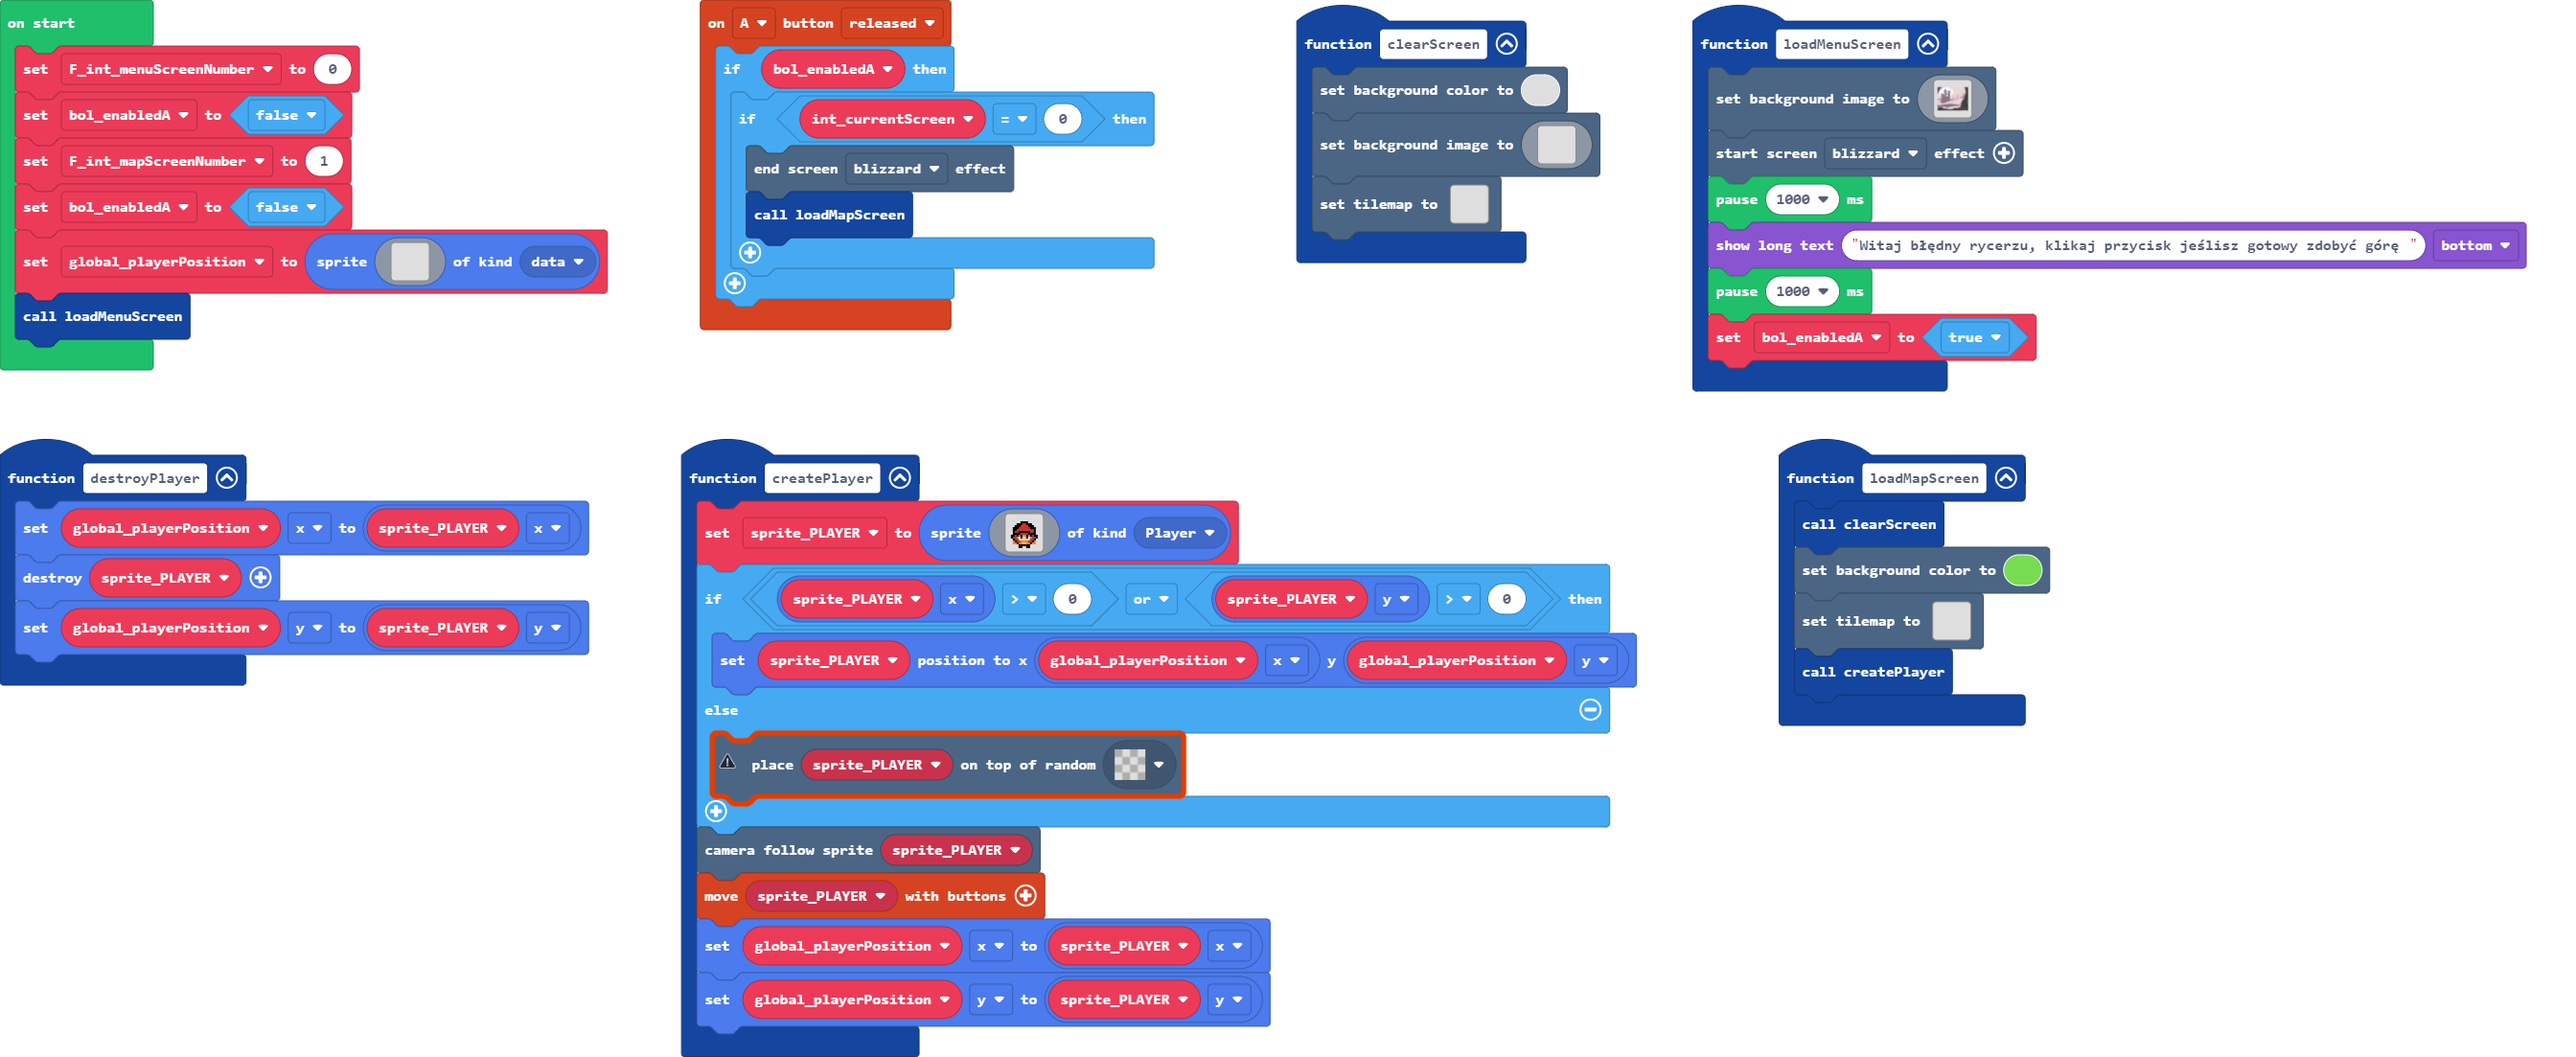
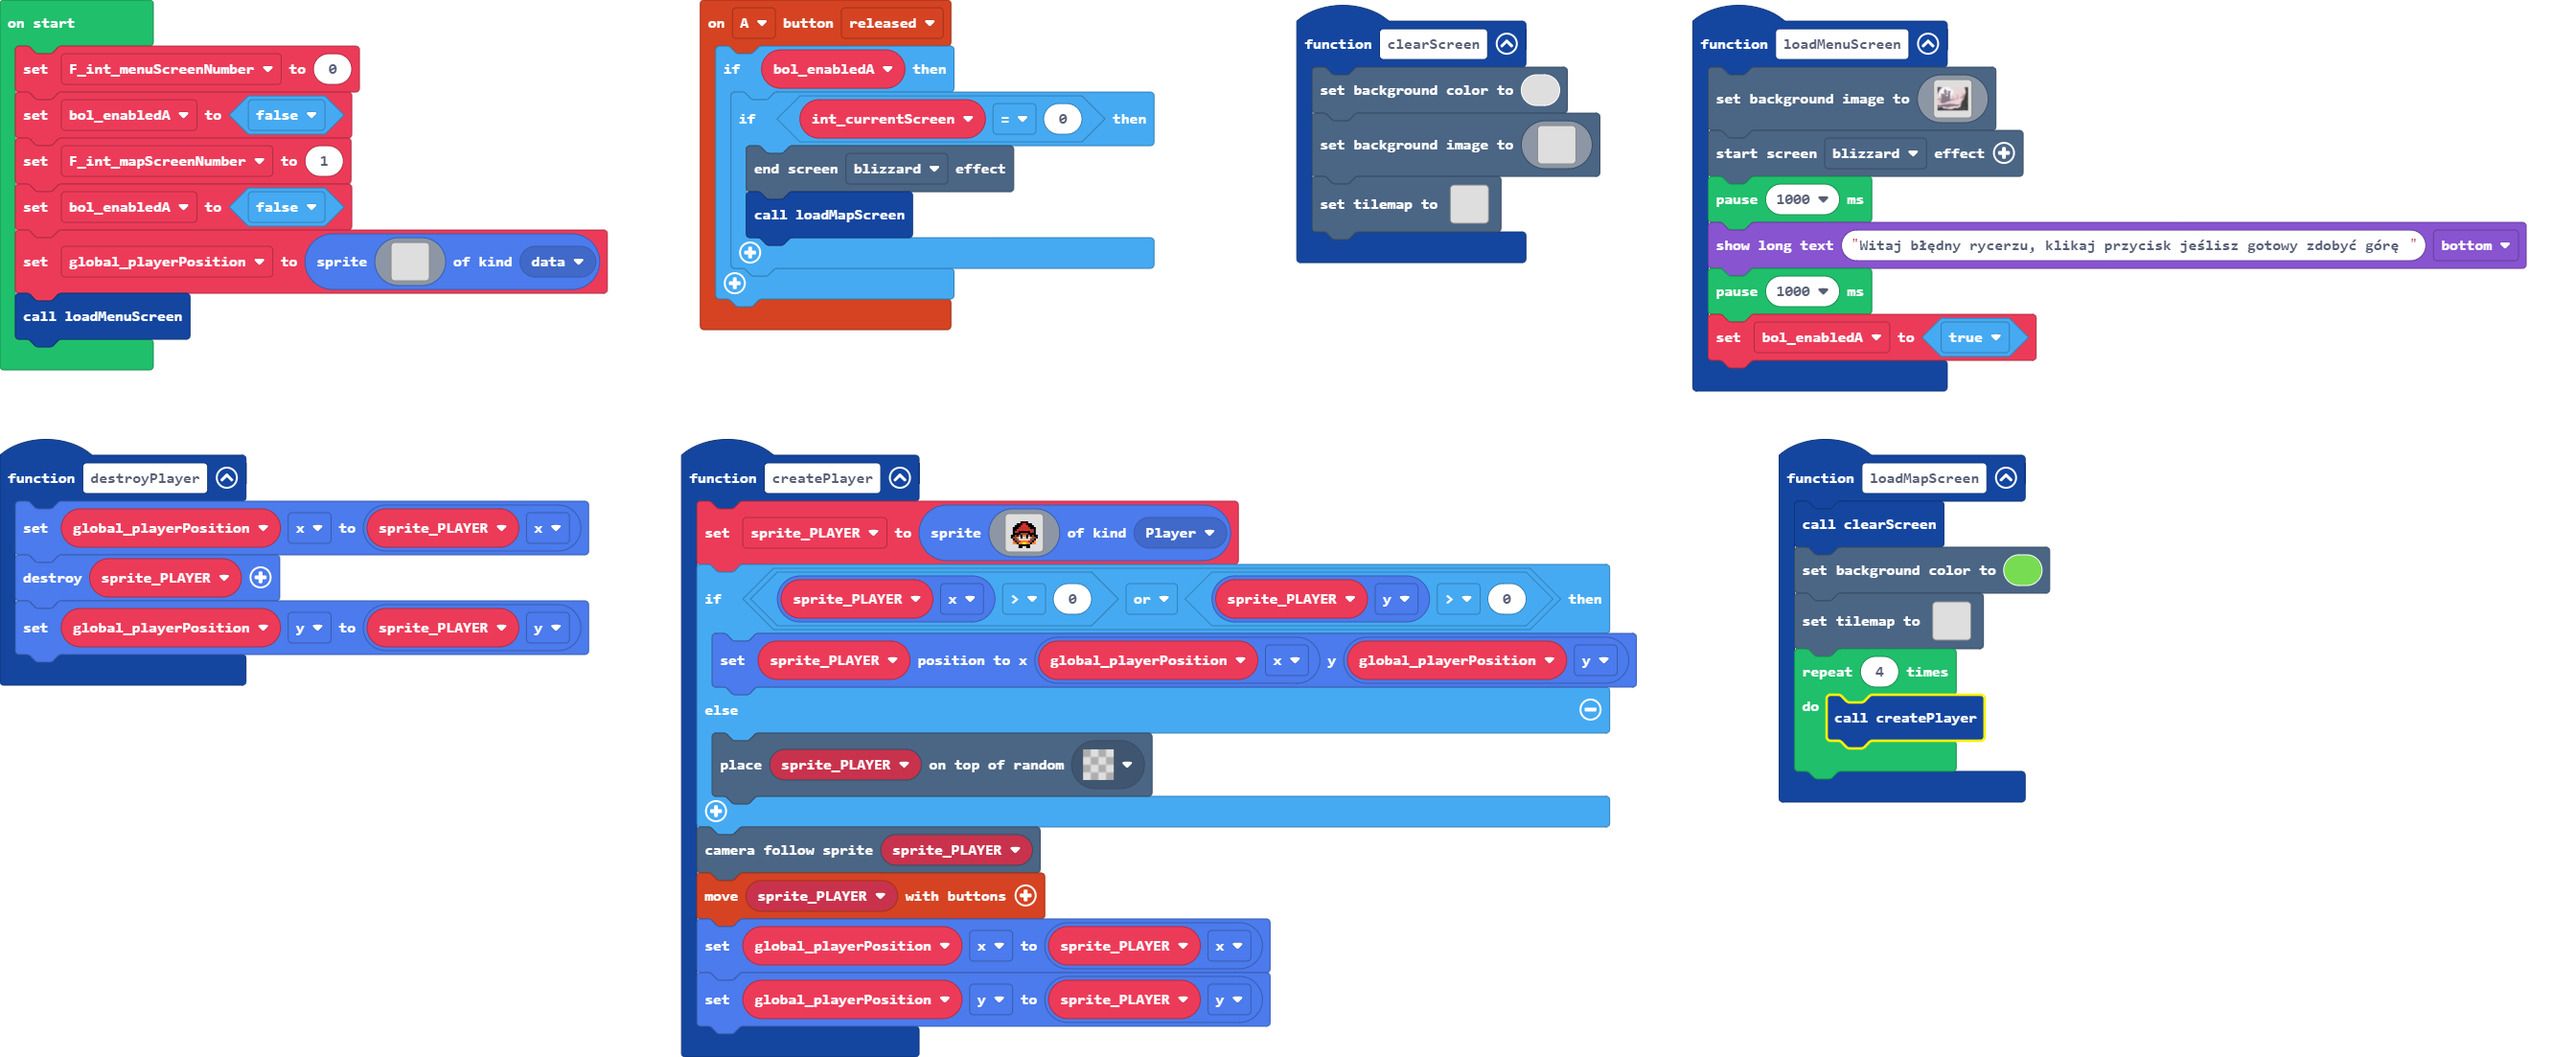
oo

Changed region(s): [[0.6875, 0.5857, 0.8125, 0.7706], [0.2812, 0.6782, 0.4688, 0.7706]]

diff --git a/main.ts b/main.ts
@@ -303,7 +303,9 @@ function loadMapScreen () {
     clearScreen()
     scene.setBackgroundColor(7)
     tiles.setTilemap(tilemap`level2`)
-    createPlayer()
+    for (let index = 0; index < 4; index++) {
+        createPlayer()
+    }
 }
 let sprite_PLAYER: Sprite = null
 let global_playerPosition: Sprite = null
